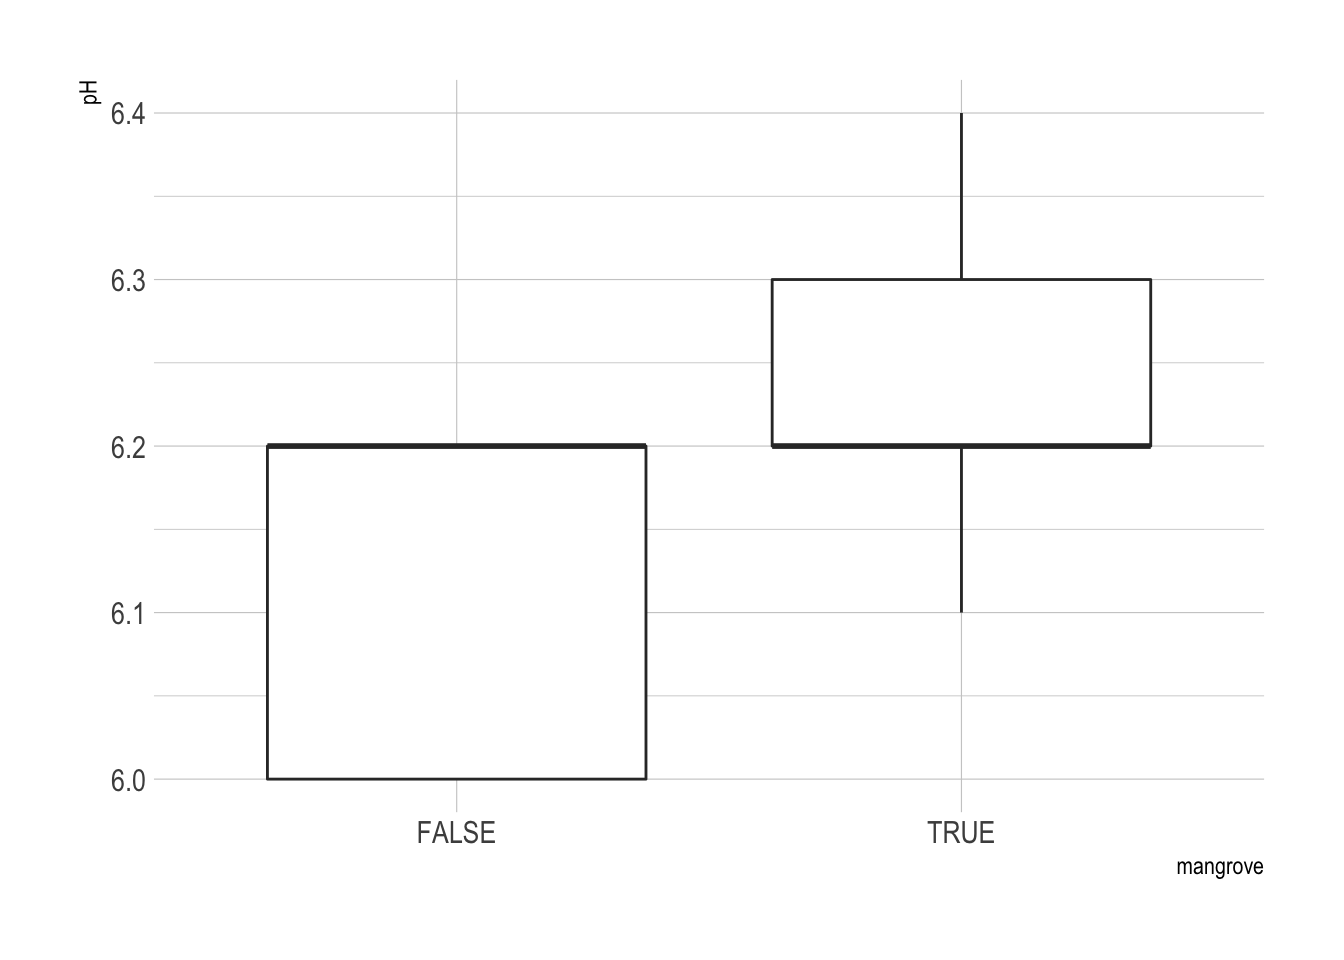
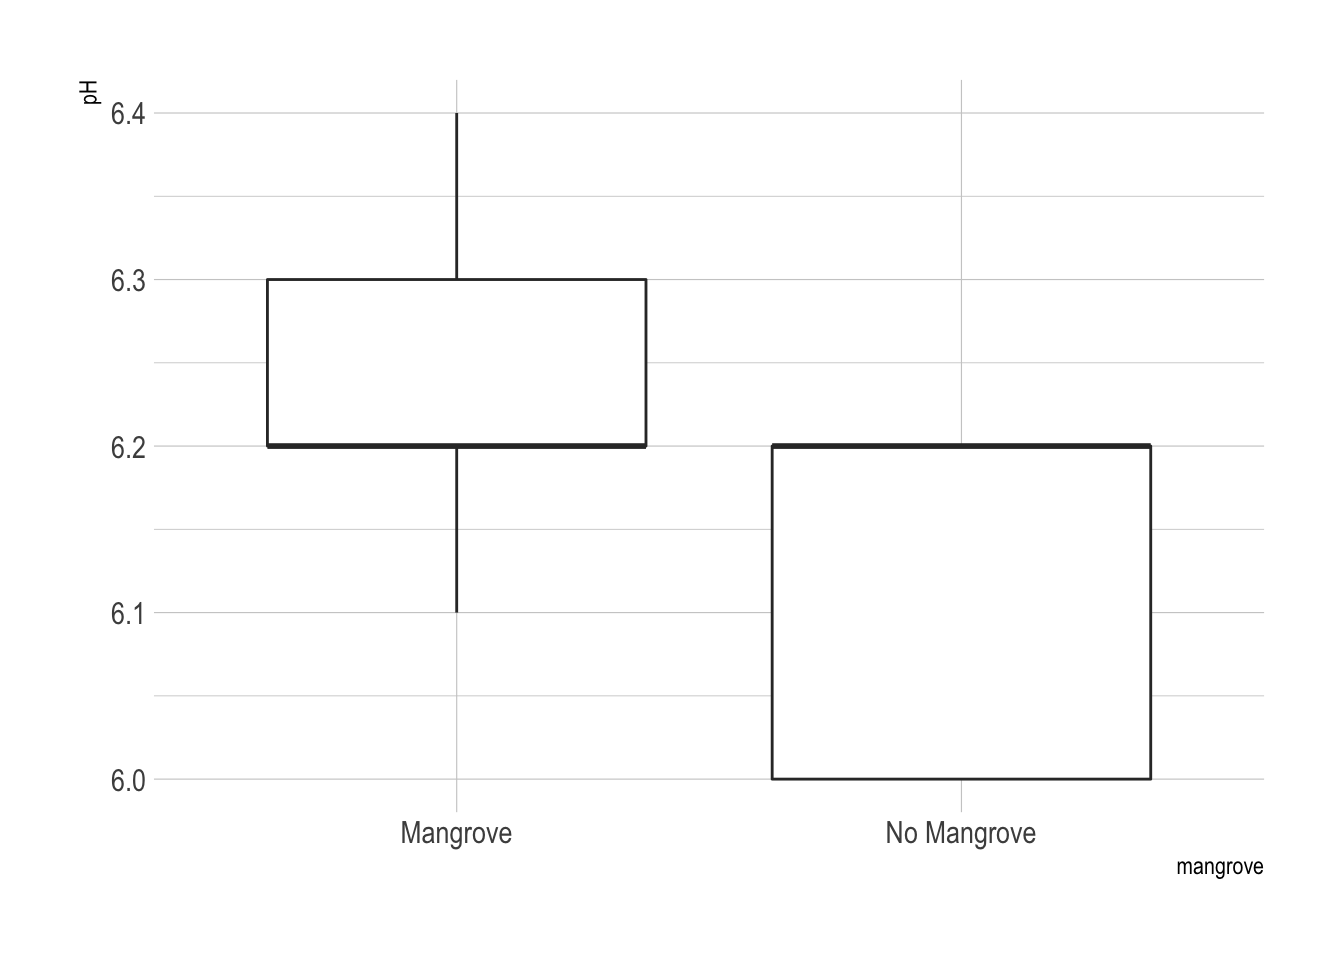
updated error bars, removed mangrove

diff --git a/2019/03/15/heeia/index.html b/2019/03/15/heeia/index.html
@@ -65,7 +65,7 @@ The premise is that the fishpond has been overgrown by invasive mangrove plants.
   "headline": "Effects of Mangrove Clearance on Water Quality at He\x27eia Fishpond",
   "description" : "My daughter started doing a science project on the ecology of the Heeia fishpond. She collected a bunch of data, but since she’s only a 5th grader, I thought she might need some help with the analysis.\nThe premise is that the fishpond has been overgrown by invasive mangrove plants. The organization that runs the fishpond has been clearing back the mangroves. This helps to restore the water in the pond.",
   "inLanguage" : "en",
-  "wordCount":  1403 ,
+  "wordCount":  1428 ,
   "datePublished" : "2019-03-15T00:00:00",
   "dateModified" : "2019-03-15T00:00:00",
   "image" : "\/img\/IMG_6557.jpg",
@@ -338,6 +338,7 @@ x</code></pre>
 ## 16 2019-03-15    16 TRUE     0.321   6.2      57.5
 ## 17 2019-03-15    17 TRUE     0.565   6.1     366  
 ## 18 2019-03-15    18 TRUE     0.511   6.2     501.</code></pre>
+<pre class="r"><code>x &lt;- x %&gt;% mutate(mangrove, mangrove = if_else(mangrove, &quot;Mangrove&quot;, &quot;No Mangrove&quot;))</code></pre>
 <div id="description-of-mean-dissolved-oxygen-ph-and-turbidity-by-mangrove-presence" class="section level2">
 <h2>Description of Mean Dissolved Oxygen, pH, and Turbidity by Mangrove Presence</h2>
 <pre class="r"><code>obs &lt;- 9
@@ -350,10 +351,10 @@ x %&gt;% group_by(mangrove) %&gt;%
             mean.turbidity = mean(turbidity),
             se.turbidity = sd(turbidity)/sqrt(obs))</code></pre>
 <pre><code>## # A tibble: 2 x 7
-##   mangrove mean.DO  se.DO mean.pH  se.pH mean.turbidity se.turbidity
-##   &lt;lgl&gt;      &lt;dbl&gt;  &lt;dbl&gt;   &lt;dbl&gt;  &lt;dbl&gt;          &lt;dbl&gt;        &lt;dbl&gt;
-## 1 FALSE      0.898 0.0243    6.13 0.0333           20.8         3.63
-## 2 TRUE       0.539 0.0377    6.24 0.0294          161.         57.5</code></pre>
+##   mangrove    mean.DO  se.DO mean.pH  se.pH mean.turbidity se.turbidity
+##   &lt;chr&gt;         &lt;dbl&gt;  &lt;dbl&gt;   &lt;dbl&gt;  &lt;dbl&gt;          &lt;dbl&gt;        &lt;dbl&gt;
+## 1 Mangrove      0.539 0.0377    6.24 0.0294          161.         57.5 
+## 2 No Mangrove   0.898 0.0243    6.13 0.0333           20.8         3.63</code></pre>
 <p>The data do not appear to be normally distributed from looking at these boxplots.</p>
 <pre class="r"><code>ggplot(x, aes(x = mangrove, y = DO)) + geom_boxplot() + theme_ipsum()</code></pre>
 <p><img src="../../../../post/2019-03-15-heeia_files/figure-html/unnamed-chunk-5-1.png" width="672" /></p>
@@ -370,21 +371,21 @@ x %&gt;% group_by(mangrove) %&gt;%
 ##  Welch Two Sample t-test
 ## 
 ## data:  x$DO by x$mangrove
-## t = 8.0141, df = 13.654, p-value = 1.586e-06
+## t = -8.0141, df = 13.654, p-value = 1.586e-06
 ## alternative hypothesis: true difference in means is not equal to 0
 ## 95 percent confidence interval:
-##  0.2628558 0.4555887
+##  -0.4555887 -0.2628558
 ## sample estimates:
-## mean in group FALSE  mean in group TRUE 
-##           0.8981111           0.5388889</code></pre>
+##    mean in group Mangrove mean in group No Mangrove 
+##                 0.5388889                 0.8981111</code></pre>
 <pre class="r"><code>wilcox.test(x$DO ~ x$mangrove)</code></pre>
-<pre><code>## Warning in wilcox.test.default(x = c(0.851, 0.829, 0.92, 0.988, 0.982,
-## 0.988, : cannot compute exact p-value with ties</code></pre>
+<pre><code>## Warning in wilcox.test.default(x = c(0.473, 0.52, 0.582, 0.7, 0.5, 0.678, :
+## cannot compute exact p-value with ties</code></pre>
 <pre><code>## 
 ##  Wilcoxon rank sum test with continuity correction
 ## 
 ## data:  x$DO by x$mangrove
-## W = 81, p-value = 0.0004095
+## W = 0, p-value = 0.0004095
 ## alternative hypothesis: true location shift is not equal to 0</code></pre>
 <pre class="r"><code>x %&gt;% group_by(mangrove) %&gt;% summarize(
   mean.DO = mean(DO), 
@@ -395,9 +396,9 @@ x %&gt;% group_by(mangrove) %&gt;%
            color = &quot;black&quot;,
            fill = &quot;#99cccc&quot;
            ) +
-  geom_errorbar(aes(ymin = mean.DO - se.DO, ymax = mean.DO + se.DO),
-                width = 0.2,
-                position=position_dodge(0.9)) +
+  # geom_errorbar(aes(ymin = mean.DO - se.DO, ymax = mean.DO + se.DO),
+  #               width = 0.2,
+  #               position=position_dodge(0.9)) +
   ggtitle(&quot;Dissolved Oxygen by Mangrove Presence&quot;) +
   xlab(&quot;Mangrove Presence&quot;) +
   ylab(&quot;Dissolved Oxygen (%)&quot;) +
@@ -413,21 +414,21 @@ x %&gt;% group_by(mangrove) %&gt;%
 ##  Welch Two Sample t-test
 ## 
 ## data:  x$pH by x$mangrove
-## t = -2.5, df = 15.754, p-value = 0.02387
+## t = 2.5, df = 15.754, p-value = 0.02387
 ## alternative hypothesis: true difference in means is not equal to 0
 ## 95 percent confidence interval:
-##  -0.20544891 -0.01677331
+##  0.01677331 0.20544891
 ## sample estimates:
-## mean in group FALSE  mean in group TRUE 
-##            6.133333            6.244444</code></pre>
+##    mean in group Mangrove mean in group No Mangrove 
+##                  6.244444                  6.133333</code></pre>
 <pre class="r"><code>wilcox.test(x$pH ~ x$mangrove)</code></pre>
-<pre><code>## Warning in wilcox.test.default(x = c(6.2, 6.2, 6, 6, 6.2, 6.2, 6.2, 6, 6.2:
+<pre><code>## Warning in wilcox.test.default(x = c(6.4, 6.3, 6.3, 6.2, 6.2, 6.3, 6.2, :
 ## cannot compute exact p-value with ties</code></pre>
 <pre><code>## 
 ##  Wilcoxon rank sum test with continuity correction
 ## 
 ## data:  x$pH by x$mangrove
-## W = 18, p-value = 0.03208
+## W = 63, p-value = 0.03208
 ## alternative hypothesis: true location shift is not equal to 0</code></pre>
 <pre class="r"><code>x %&gt;% group_by(mangrove) %&gt;% 
 summarize(
@@ -438,9 +439,9 @@ summarize(
   geom_bar(stat=&#39;identity&#39;,
            color = &quot;black&quot;,
            fill = &quot;#99cccc&quot;) +
-  geom_errorbar(aes(ymin = mean.pH - se.pH, ymax = mean.pH + se.pH),
-                width = 0.2,
-                position=position_dodge(0.9)) +
+  # geom_errorbar(aes(ymin = mean.pH - se.pH, ymax = mean.pH + se.pH),
+  #               width = 0.2,
+  #               position=position_dodge(0.9)) +
   ggtitle(&quot;pH by Mangrove Presence&quot;) +
   xlab(&quot;Mangrove Presence&quot;) +
   ylab(&quot;pH&quot;) +
@@ -455,19 +456,19 @@ summarize(
 ##  Welch Two Sample t-test
 ## 
 ## data:  x$turbidity by x$mangrove
-## t = -2.4267, df = 8.0638, p-value = 0.04119
+## t = 2.4267, df = 8.0638, p-value = 0.04119
 ## alternative hypothesis: true difference in means is not equal to 0
 ## 95 percent confidence interval:
-##  -272.465627   -7.134373
+##    7.134373 272.465627
 ## sample estimates:
-## mean in group FALSE  mean in group TRUE 
-##                20.8               160.6</code></pre>
+##    mean in group Mangrove mean in group No Mangrove 
+##                     160.6                      20.8</code></pre>
 <pre class="r"><code>wilcox.test(x$turbidity ~ x$mangrove)</code></pre>
 <pre><code>## 
 ##  Wilcoxon rank sum test
 ## 
 ## data:  x$turbidity by x$mangrove
-## W = 12, p-value = 0.01061
+## W = 69, p-value = 0.01061
 ## alternative hypothesis: true location shift is not equal to 0</code></pre>
 <pre class="r"><code>x %&gt;% group_by(mangrove) %&gt;% summarize(
   mean.turbidity = mean(turbidity), 
@@ -477,10 +478,10 @@ summarize(
   geom_bar(stat=&#39;identity&#39;,
            color = &quot;black&quot;,
            fill = &quot;#99cccc&quot;) +
-  geom_errorbar(aes(ymin = mean.turbidity - se.turbidity, 
-                    ymax = mean.turbidity + se.turbidity),
-                width = 0.2,
-                position=position_dodge(0.9)) +
+  # geom_errorbar(aes(ymin = mean.turbidity - se.turbidity, 
+  #                   ymax = mean.turbidity + se.turbidity),
+  #               width = 0.2,
+  #               position=position_dodge(0.9)) +
   ggtitle(&quot;Turbidity by Mangrove Presence&quot;) +
   xlab(&quot;Mangrove Presence&quot;) +
   ylab(&quot;Turbidity&quot;) +
@@ -502,8 +503,8 @@ summary(model1)</code></pre>
 ## 
 ## Coefficients:
 ##                                  Estimate Std. Error t value Pr(&gt;|t|)    
-## (Intercept)                       0.87544    0.03343   26.18 2.71e-13 ***
-## x$mangroveTRUE                   -0.35922    0.03343  -10.74 3.81e-08 ***
+## (Intercept)                       0.51622    0.03343   15.44 3.47e-10 ***
+## x$mangroveNo Mangrove             0.35922    0.03343   10.74 3.81e-08 ***
 ## as.factor(x$coll_date)2019-03-09  0.11017    0.04095    2.69   0.0176 *  
 ## as.factor(x$coll_date)2019-03-15 -0.04217    0.04095   -1.03   0.3206    
 ## ---
